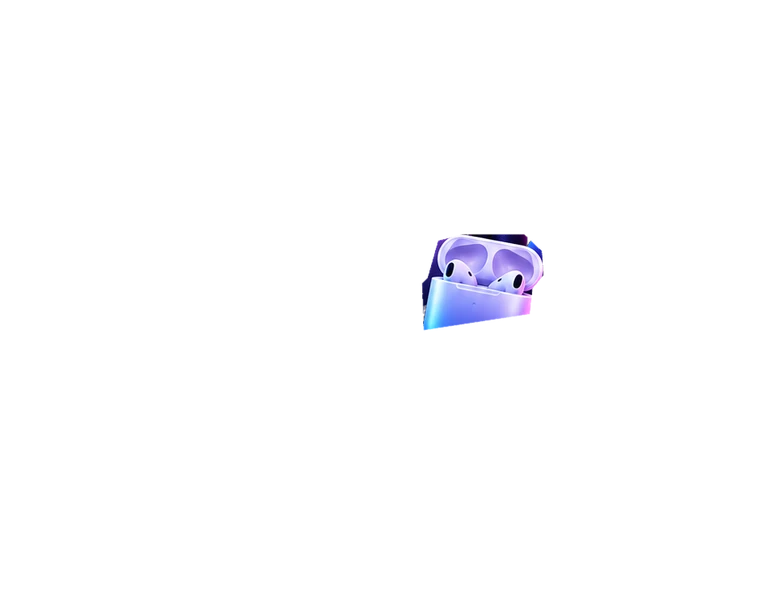
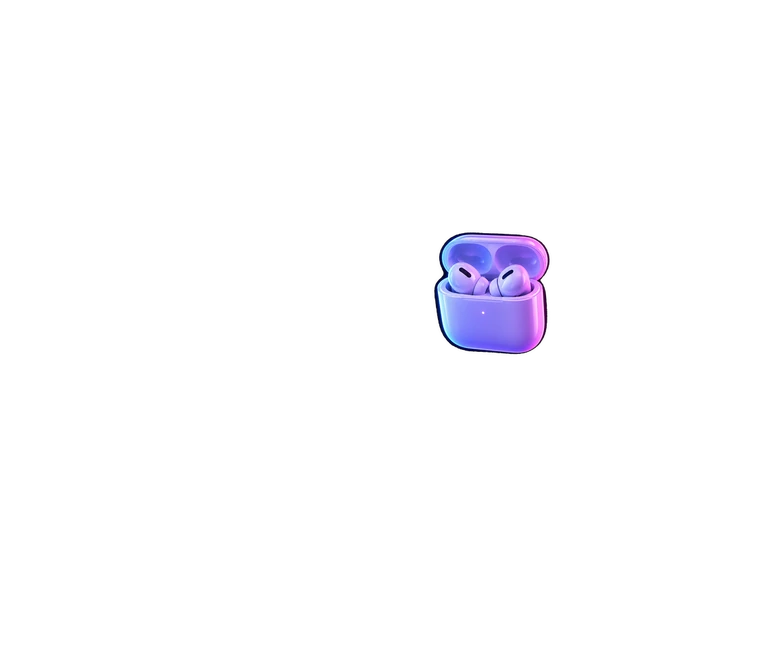
Intro: ChatGPT'da alohida yaratilgan quti va qurilmalar bilan qayta yig'ildi
Logodan qirqib olingan qatlamlar o'rniga toza, yuqori sifatli rasmlar: bo'sh quti (ichki va old devor
qatlamlariga ajratilgan) va 5 ta qurilma qora fondan ajratilib, qutiga joylashtirildi.

Claude-Session: https://claude.ai/code/session_019JFRoEUmdfUzBZbz92TZM4

Changed region(s): [[0.5447, 0.3295, 0.7263, 0.5691]]

diff --git a/index.html b/index.html
@@ -12,7 +12,6 @@
 <link rel="preload" as="image" href="intro/p-phone.webp">
 <link rel="preload" as="image" href="intro/p-watch.webp">
 <link rel="preload" as="image" href="intro/p-airpods.webp">
-<link rel="preload" as="image" href="intro/mark.webp">
 <link rel="preload" as="image" href="intro/text.webp">
 <link rel="icon" href="logo.jpg">
 <script src="https://telegram.org/js/telegram-web-app.js"></script>
@@ -4270,7 +4269,7 @@ body.modal-open {
 #intro .in-stars i { position: absolute; width: 2px; height: 2px; border-radius: 50%; background: #fff; opacity: 0; animation: inTw 2.4s ease-in-out infinite; }
 /* Sahna: telefonda ekran eniga, kompyuterda balandlikka moslashadi */
 #intro .in-stage { position: relative; width: min(84vw, 50vh, 460px); display: flex; flex-direction: column; align-items: center; }
-#intro .in-box { position: relative; width: 100%; aspect-ratio: 760 / 600; }
+#intro .in-box { position: relative; width: 100%; aspect-ratio: 760 / 653; }
 #intro .in-box > img { position: absolute; inset: 0; width: 100%; height: 100%; opacity: 0; will-change: transform, opacity; }
 #intro .in-shadow { position: absolute; left: 18%; right: 18%; bottom: 2%; height: 9%; border-radius: 50%; background: radial-gradient(closest-side, rgba(120,90,255,.55), transparent); filter: blur(6px); opacity: 0; }
 #intro .in-flash { position: absolute; left: 50%; top: 50%; width: 80%; aspect-ratio: 1; border-radius: 50%; transform: translate(-50%, -50%) scale(.2); background: radial-gradient(circle, rgba(255,255,255,.9), rgba(167,139,250,.5) 30%, transparent 65%); opacity: 0; mix-blend-mode: screen; pointer-events: none; }
@@ -4291,7 +4290,6 @@ body.modal-open {
 #intro.go .in-back, #intro.go .in-front { animation: inBox .62s .05s cubic-bezier(.2,1.4,.4,1) forwards; }
 #intro.go .in-shadow { animation: inFade .5s .2s forwards; }
 #intro.go .in-prod { animation: inDrop .5s var(--t) forwards; }
-#intro.go .in-full { animation: inFade .3s 1.95s ease-out forwards; }
 #intro.go .in-flash { animation: inFlash .6s 1.9s ease-out forwards; }
 #intro.go .in-ring { animation: inRing .8s 1.92s cubic-bezier(.1,.7,.3,1) forwards; }
 #intro.go .in-ring.r2 { animation-delay: 2.04s; }
@@ -4342,7 +4340,6 @@ body.modal-open {
       <img class="in-prod" style="--t:1.28s;--r:9deg" data-land="1.61" src="intro/p-watch.webp" alt="">
       <img class="in-prod" style="--t:1.46s;--r:-7deg" data-land="1.79" src="intro/p-airpods.webp" alt="">
       <img class="in-front" src="intro/box-front.webp" alt="">
-      <img class="in-full" src="intro/mark.webp" alt="">
       <div class="in-flash"></div>
       <div class="in-ring"></div><div class="in-ring r2"></div>
     </div>
